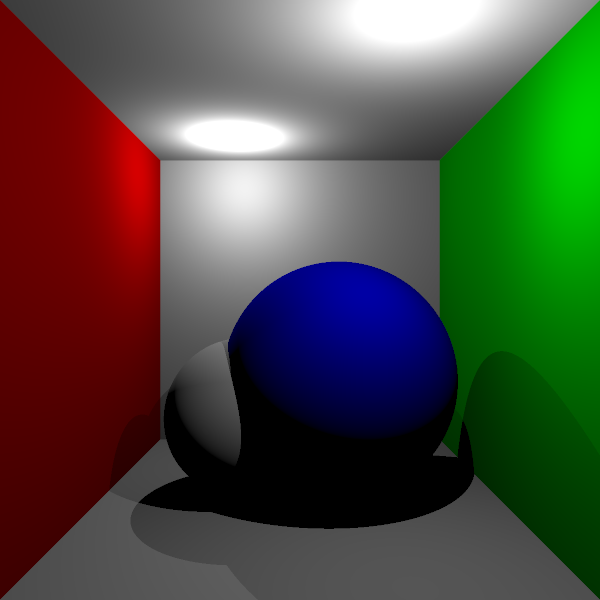
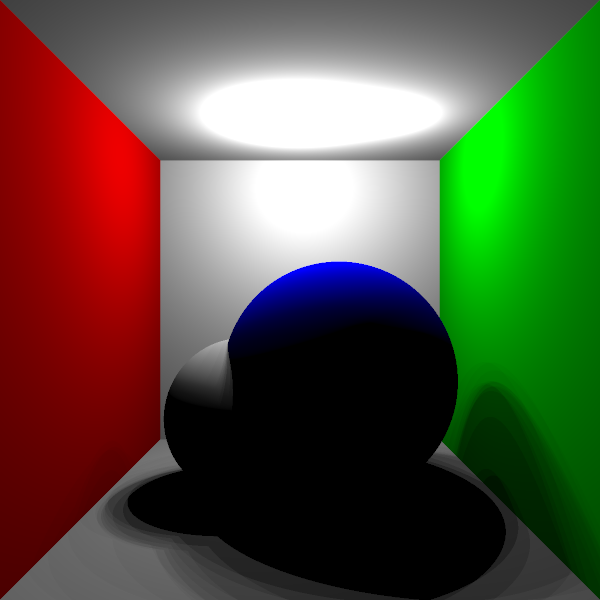
soft shadow banding issue

diff --git a/Main.py b/Main.py
@@ -35,7 +35,7 @@ def main():
 	blueLambert = Material(diffuseColor=Vector(0,0,0.9))
 	greenLambert = Material(diffuseColor=Vector(0,0.9,0))
 	whiteLambert = Material(diffuseColor=Vector(0.9,0.9,0.9))
-	
+
 	#-------Scene--------
 	#important! This is a right handed coordinate system!
 	sphere01 = Sphere(Vector(-15,-30,-136),20,material=whiteLambert)
@@ -46,11 +46,11 @@ def main():
 	plane04 = Plane(Vector(50,0,-136),Vector(-1,0,0),material=greenLambert) #right wall
 	plane05 = Plane(Vector(0,50,-136),Vector(0,-1,0),material=whiteLambert) #top wall
 	testPlane = Plane(Vector(0,30,-136),Vector(0,-1,0),w=20,h=20)
-	#light01 = DiskLight(Vector(0,40,-150),30) #light source on the top
+	light01 = DiskLight(Vector(0,40,-150),30) #light source on the top
 	light02 = PointLight(Vector(-20,40,-160))
 	light03 = PointLight(Vector(20,30,-90))
 
-	newScene = Scene({"geometry":[sphere01,sphere02,plane01,plane02,plane03,plane04,plane05],"light":[light02,light03]})
+	newScene = Scene({"geometry":[sphere01,sphere02,plane01,plane02,plane03,plane04,plane05],"light":[light01]})
 
 	cam = Camera(Vector(0,0,0),Vector(0,0,1),60)
 

diff --git a/Light.py b/Light.py
@@ -18,17 +18,23 @@ class PointLight(Light):
 
 
 class DiskLight(Light):
-	def __init__(self,pos,radius,intensity = 5000, color = Vector(1,1,1),samples = 8):
+	def __init__(self,pos,radius,intensity = 5000, color = Vector(1,1,1),samples = 16):
 		super().__init__(pos,intensity,color)
 		self.type = 'Area'
 		self.radius = radius
 		self.samples = samples
+		self.samplePtList = self.getRandomSample()
 
 	def getRandomSample(self):
 		#generate a sample point on the disk
-		theta = random.random() * math.pi #range [0,2pi)
-		randPointOnDisk =self.pos +  Vector(math.cos(theta) * self.radius,0,math.sin(theta) * self.radius)
-		return randPointOnDisk
+		samplePtLi = []
+		for i in range(self.samples):
+			theta = random.random() * math.pi #range [0,2pi)
+			multiplier = random.random() #range [0,1)
+			randPointOnDisk =self.pos +  Vector(math.cos(theta) * self.radius * multiplier,0,math.sin(theta) * self.radius * multiplier)
+			samplePtLi.append(randPointOnDisk)
+
+		return samplePtLi
 
 class RectangleLight(Light):
 	def __init__(self,pos,radius,intensity = 500, color = Vector(1,1,1), samples = 8):

diff --git a/RenderProcess.py b/RenderProcess.py
@@ -82,7 +82,7 @@ class RenderProcess(multiprocessing.Process):
 		for eachLight in self.scene.lights:
 			for i in range(eachLight.samples):
 				if eachLight.type == 'Area':
-					shadowRayDir = eachLight.getRandomSample() - hitResult[1]
+					shadowRayDir = eachLight.samplePtList[i] - hitResult[1]
 				else:
 					shadowRayDir = eachLight.pos - hitResult[1]
 	 			#lambert is the cosine
@@ -96,7 +96,7 @@ class RenderProcess(multiprocessing.Process):
 					if not inShadow:
 						litColor = litColor + eachLight.color * (eachLight.intensity * lambert / (4*math.pi*math.pow(temp_t,2)))
 
-			litColorAvg = litColor / eachLight.samples
+			litColorAvg = litColor / eachLight.samples * 2 * math.pi 
 
 		matColor = self.scene.getObjectById(hitResult[3]).material.diffuseColor
 
